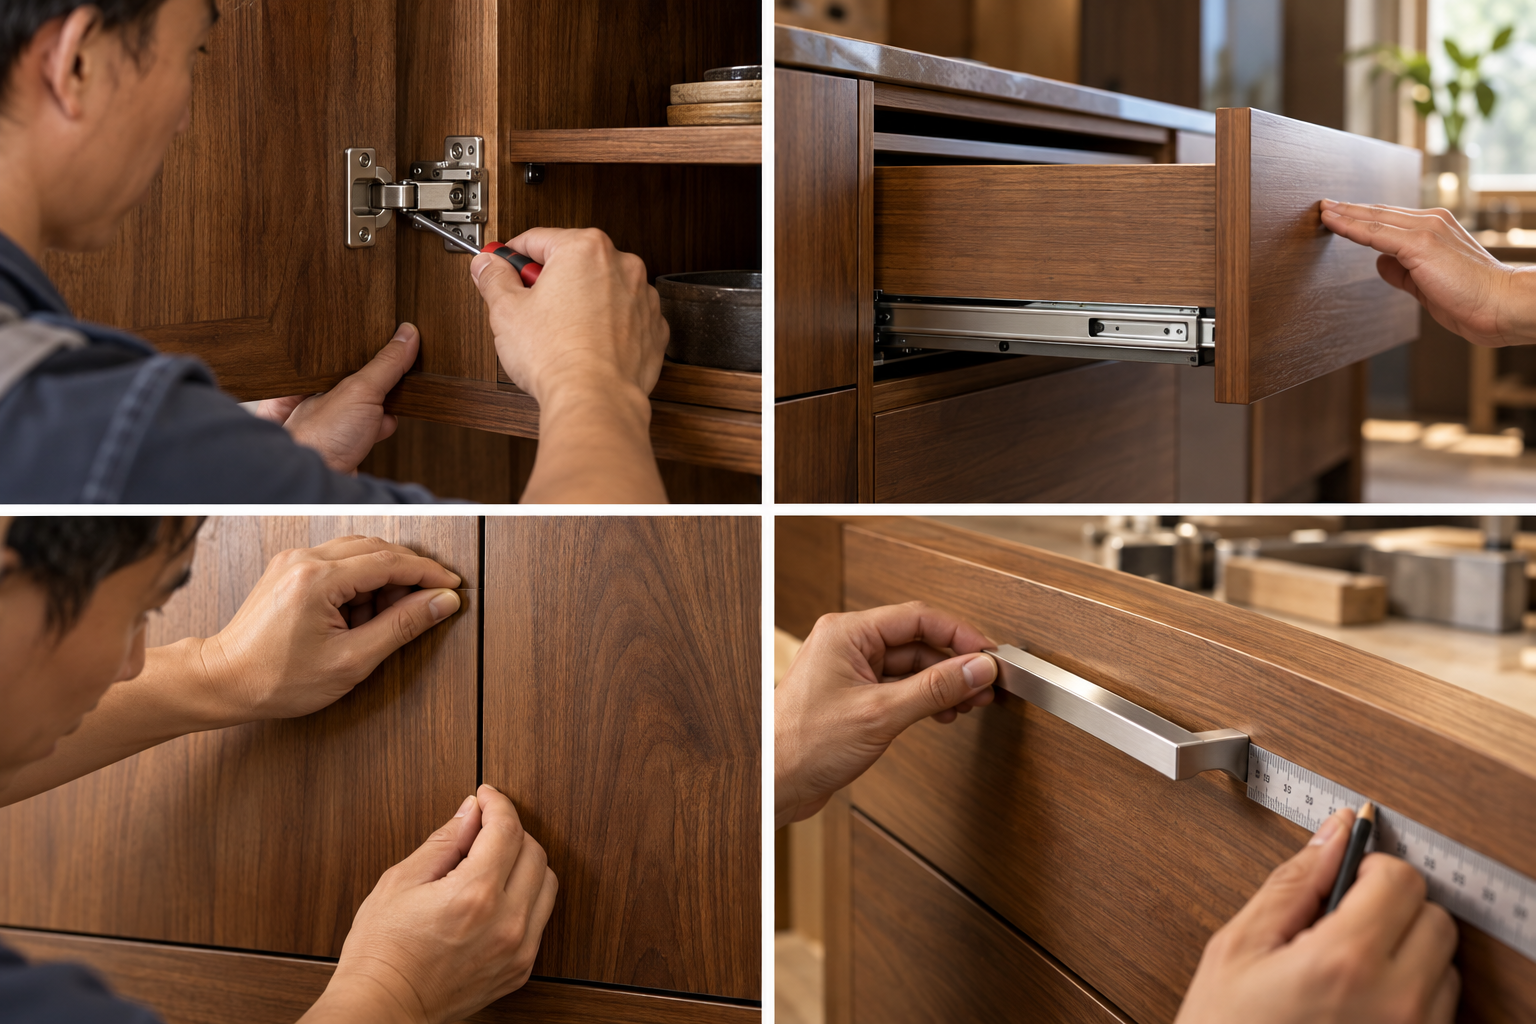
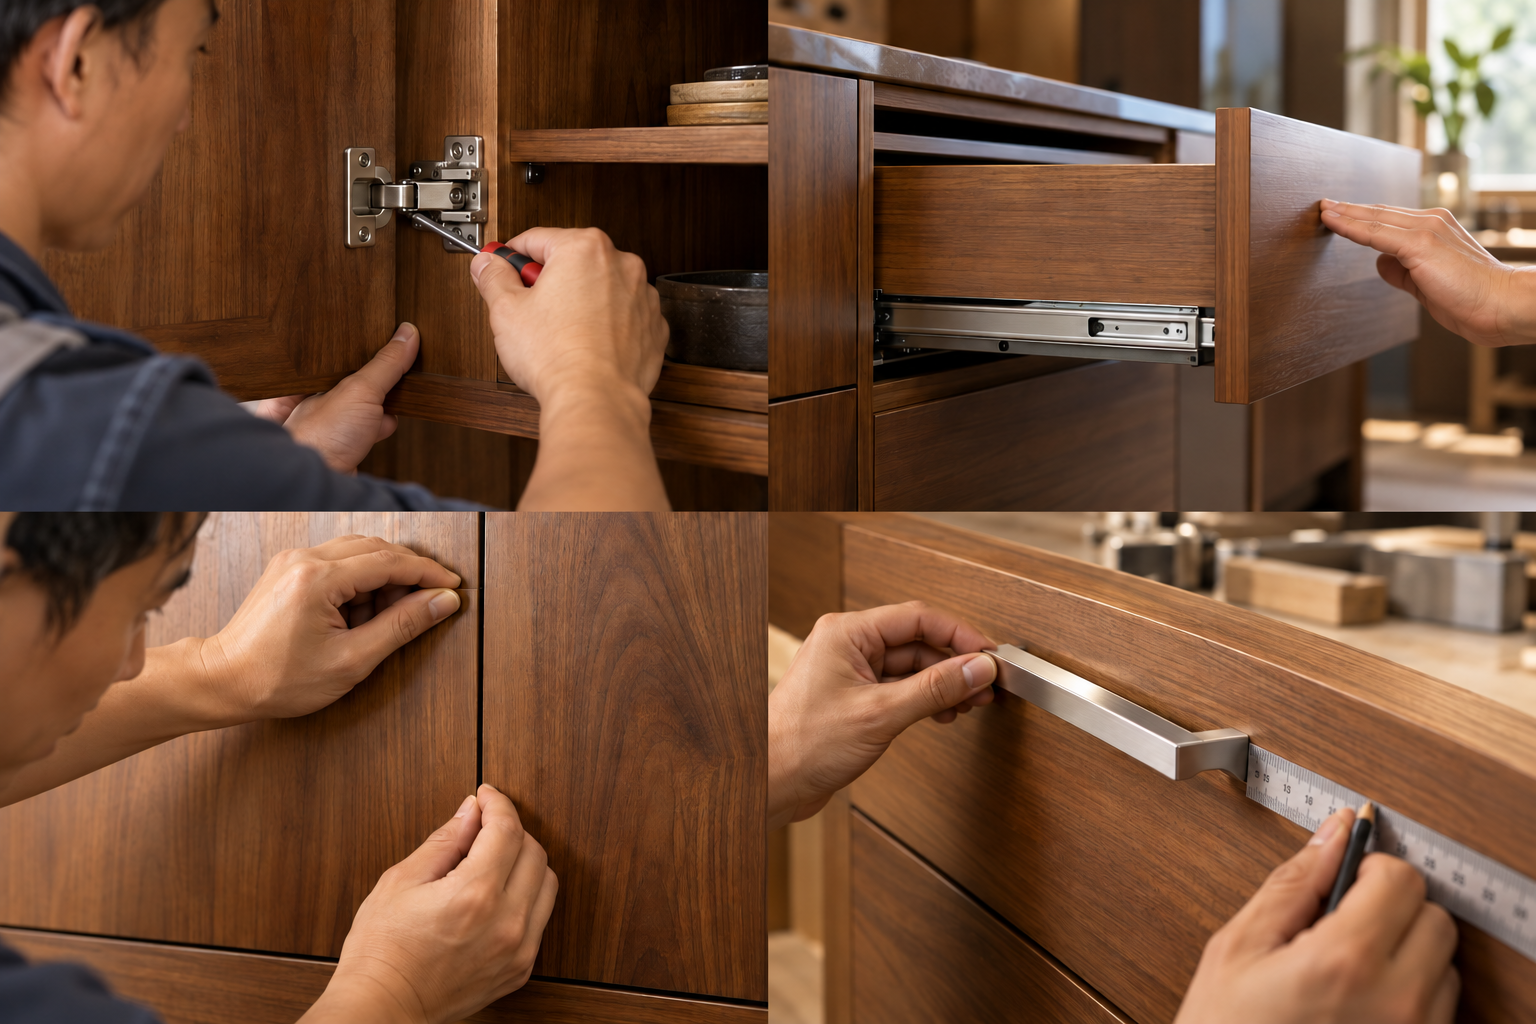
feat: add apartment image fallback logic and update craftsmanship photo aspect ratio

Changed region(s): [[0.0, 0.0, 1.0, 1.0], [0.6562, 0.2812, 0.7812, 0.3438], [0.25, 0.125, 0.3125, 0.2188]]

diff --git a/src/services/imageService.js b/src/services/imageService.js
@@ -3,6 +3,25 @@ const allSlots = require('../data/homeImageSlots');
 const subpageSlots = require('../data/subpageImageSlots');
 
 const configuredSlots = [...allSlots, ...subpageSlots];
+const APARTMENT_SUBPAGE_KEY = 'tk-nt-chung-cu';
+
+function apartmentFallbackScope(pageKey, subpageKey = null) {
+  const scope = String(subpageKey ? `${pageKey}:${subpageKey}` : pageKey || '');
+  if (scope === APARTMENT_SUBPAGE_KEY || scope === `quote:${APARTMENT_SUBPAGE_KEY}`) return null;
+  if (scope.startsWith('quote:tk-nt-')) return `quote:${APARTMENT_SUBPAGE_KEY}`;
+  if (scope.startsWith('tk-nt-')) return APARTMENT_SUBPAGE_KEY;
+  return null;
+}
+
+function getApartmentFallbackSlot(slot) {
+  const fallbackPageKey = apartmentFallbackScope(slot?.page_key);
+  if (!fallbackPageKey) return null;
+  return subpageSlots.find(candidate => candidate.page_key === fallbackPageKey && (
+    slot.parent_image_key
+      ? candidate.parent_image_key === slot.parent_image_key
+      : candidate.section_key === slot.section_key
+  )) || null;
+}
 
 function customReference(record, slot) {
   if (record?.custom_image_reference?.image_url) return record.custom_image_reference;
@@ -67,6 +86,10 @@ async function getPageImages(pageKey = null, subpageKey = null) {
   const subpageOverrides = scopedSubpageKey
     ? new Map(subpageSlots.filter(s => s.page_key === scopedSubpageKey).map(s => [s.parent_image_key, s]))
     : new Map();
+  const fallbackScope = apartmentFallbackScope(pageKey, subpageKey);
+  const fallbackSlots = fallbackScope
+    ? new Map(subpageSlots.filter(s => s.page_key === fallbackScope).map(s => [s.parent_image_key || s.section_key, s]))
+    : new Map();
   const targetSlots = pageKey && subpageKey
     ? parentSlots
     : pageKey
@@ -82,7 +105,13 @@ async function getPageImages(pageKey = null, subpageKey = null) {
     }
     return Object.fromEntries(targetSlots.flatMap(s => {
       const override = subpageOverrides.get(s.image_key);
-      const effectiveSlot = override && byKey.has(override.image_key) ? override : s;
+      const ownSlot = scopedSubpageKey ? override : s;
+      const fallbackSlot = fallbackSlots.get(scopedSubpageKey ? s.image_key : s.section_key);
+      const effectiveSlot = customReference(byKey.get(ownSlot?.image_key), ownSlot)
+        ? ownSlot
+        : customReference(byKey.get(fallbackSlot?.image_key), fallbackSlot)
+          ? fallbackSlot
+          : s;
       return [
         [s.image_key, resolve(effectiveSlot, byKey)],
         [`${s.image_key}__mobile`, resolveMobile(effectiveSlot, byKey)]
@@ -99,6 +128,7 @@ async function getPageImages(pageKey = null, subpageKey = null) {
 
 module.exports = {
   getPageImages,
+  getApartmentFallbackSlot,
   allSlots,
   subpageSlots
 };

diff --git a/src/controllers/homeImageController.js b/src/controllers/homeImageController.js
@@ -11,6 +11,7 @@ const subpageList = subpageSlots.subpageList || [...new Map(subpageSlots.map(slo
 const { uploadToCloudinary, imageFormatsMatch, destroyCloudinaryImage } = require('../utils/cloudinary');
 const { processImageBuffer } = require('../utils/imageProcessing');
 const { IMAGE_MAX_FILE_SIZE } = require('../config/imageUpload');
+const { getApartmentFallbackSlot } = require('../services/imageService');
 
 const allConfiguredSlots = [...slots, ...subpageSlots];
 const slotByKey = new Map(allConfiguredSlots.map(slot => [slot.image_key, slot]));
@@ -102,6 +103,7 @@ const customMobileReferenceFor = (record, slot) => {
 
 function resolveState(slot, recordsByKey) {
   const parentSlot = slot.parent_image_key ? slotByKey.get(slot.parent_image_key) : null;
+  const fallbackSlot = getApartmentFallbackSlot(slot);
   const record = recordsByKey.get(slot.image_key);
   const custom = customReferenceFor(record, slot);
   const ownMobileCustom = customMobileReferenceFor(record, slot);
@@ -114,16 +116,19 @@ function resolveState(slot, recordsByKey) {
   const parentState = parentSlot && parentSlot.image_key !== slot.image_key
     ? resolveState(parentSlot, recordsByKey)
     : null;
+  const fallbackState = fallbackSlot && fallbackSlot.image_key !== slot.image_key
+    ? resolveState(fallbackSlot, recordsByKey)
+    : null;
 
   return {
     mode: 'custom',
     custom,
     sharedReference: null,
-    activeImageUrl: custom?.image_url || parentState?.activeImageUrl || slot.image_url,
-    activeCloudinaryPublicId: custom?.cloudinary_public_id || parentState?.activeCloudinaryPublicId || null,
+    activeImageUrl: custom?.image_url || fallbackState?.activeImageUrl || parentState?.activeImageUrl || slot.image_url,
+    activeCloudinaryPublicId: custom?.cloudinary_public_id || fallbackState?.activeCloudinaryPublicId || parentState?.activeCloudinaryPublicId || null,
     mobileCustom,
-    activeMobileImageUrl: mobileCustom?.image_url || parentState?.activeMobileImageUrl || slot.mobile_image_url || slot.image_url,
-    activeMobileCloudinaryPublicId: mobileCustom?.cloudinary_public_id || parentState?.activeMobileCloudinaryPublicId || null,
+    activeMobileImageUrl: mobileCustom?.image_url || fallbackState?.activeMobileImageUrl || parentState?.activeMobileImageUrl || slot.mobile_image_url || slot.image_url,
+    activeMobileCloudinaryPublicId: mobileCustom?.cloudinary_public_id || fallbackState?.activeMobileCloudinaryPublicId || parentState?.activeMobileCloudinaryPublicId || null,
     inheritedFrom: custom || !parentState ? null : {
       imageKey: parentSlot.image_key,
       label: parentSlot.label,
